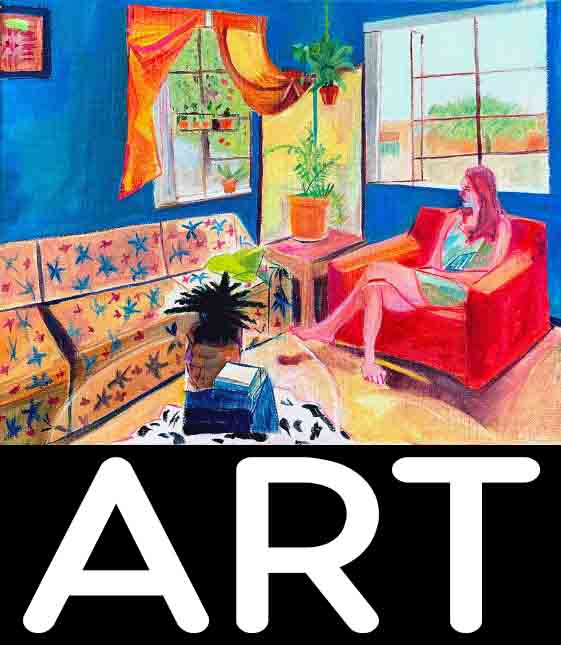
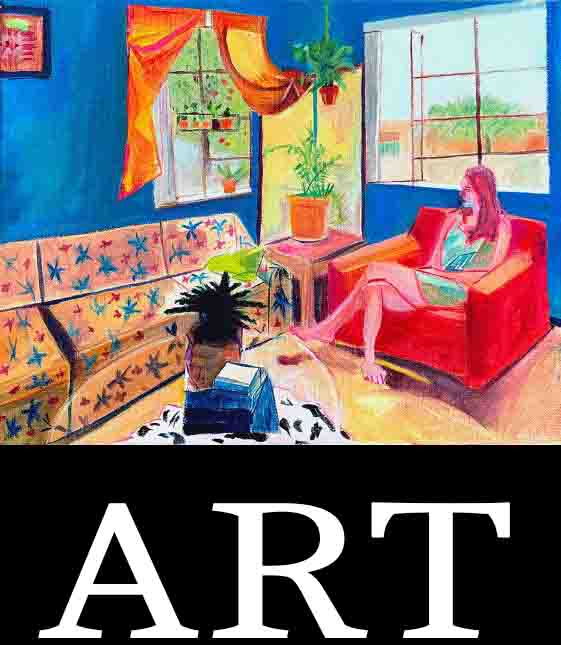
Update font to Caladea (index only first)

diff --git a/index.html b/index.html
@@ -11,7 +11,7 @@
     <link rel="manifest" href="/site.webmanifest">
     <meta name="msapplication-TileColor" content="#da532c">
     <meta name="theme-color" content="#ffffff">
-
+    <link rel="stylesheet" media="screen" href="https://fontlibrary.org//face/caladea" type="text/css" />
 
     <title>Giancarlo Fiorenzo</title>
 
@@ -32,7 +32,9 @@
             background-color: rgb(0, 0, 0);
             color: white;
             font-size: 2vw;
-            font-family: "monospace"
+            font-family: 'CaladeaRegular';
+            font-weight: normal;
+            font-style: normal;
         }
 
         #Scene {
